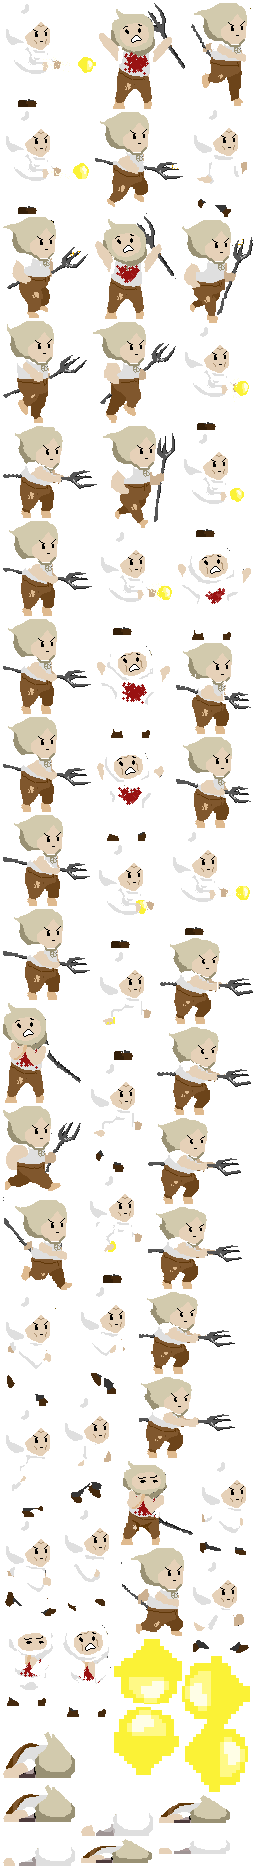
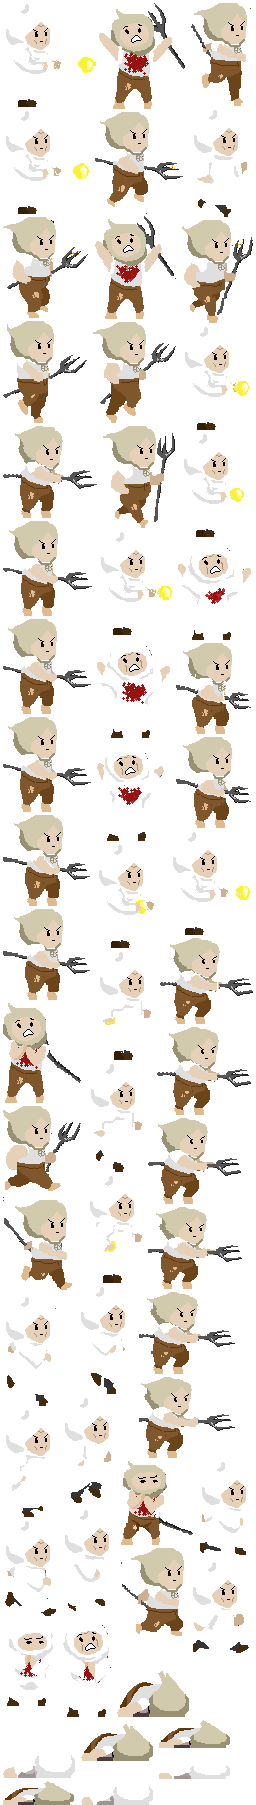
Revert "[Enemy] - Add fire bullet on priest"
This reverts commit 4a588bb8333f744e464b6e2dda7c52a940e058e1.

diff --git a/src/scripts/enemy/priest/priest.class.ts b/src/scripts/enemy/priest/priest.class.ts
@@ -4,12 +4,8 @@ import { EnemyGuid } from "../enemy-guid.enum";
 import { EnemiesEnum } from "../enemies.enum";
 import MainScene from "../../scenes/MainScene";
 import {PriestInfo} from "./priest-info.enum";
-import Player from "../../player/Player";
-import {Bullet} from "./bullet.class";
 
 export class Priest extends Enemy implements IEnemy {
-    private isRangeAttacking = false;
-    private bullets: any;
     /**
      * Sprite prefix for run anim
      * @type {string}
@@ -48,7 +44,6 @@ export class Priest extends Enemy implements IEnemy {
         });
 
         this.on('animationcomplete_' + this.GUID + 'Fight', () => {
-            this.pushBullet();
             if (!this.isDead) {
                 if (this.currentPlayerInstance !== null) {
                     this.currentPlayerInstance.getDamageFromEnemy(this.info.damage);
@@ -62,118 +57,7 @@ export class Priest extends Enemy implements IEnemy {
         this.on('animationcomplete_' + this.GUID + 'Hit', () => {
             this.isHit = false;
         });
-
-        this.handleCollisionAttack();
     }
-
-
-    /**
-     * Set physics of the enemy
-     */
-    protected setPhysics(x: number, y: number) {
-        const matterEngine: any = Phaser.Physics.Matter;
-        const body = matterEngine.Matter.Bodies.rectangle(x, y, 60, 110, {
-            chamfer: { radius: 17 }
-        });
-        // add sensor
-        this.sensors = {
-            left: matterEngine.Matter.Bodies.rectangle(x - 50, y, 20, 50, { isSensor: true, label: 'left' }),
-            right: matterEngine.Matter.Bodies.rectangle(x + 50, y, 20, 50, { isSensor: true, label: 'right' }),
-            rightRangeAttack: matterEngine.Matter.Bodies.rectangle(x + 200, y, 300, 10, { isSensor: true, label: 'rightRangeAttack' }),
-            leftRangeAttack: matterEngine.Matter.Bodies.rectangle(x - 200, y, 300, 10, { isSensor: true, label: 'leftRangeAttack' })
-        };
-
-        const compoundBody = matterEngine.Matter.Body.create({
-            parts: [ body, this.sensors.left, this.sensors.right, this.sensors.rightRangeAttack, this.sensors.leftRangeAttack],
-            inertia: Infinity
-        });
-
-        this.setExistingBody(compoundBody);
-        this.setFixedRotation();
-        this.setFriction(0);
-    }
-
-
-    /**
-     * Handle collision effects
-     */
-    private handleCollisionAttack(): void {
-        this.scene.matterCollision.addOnCollideStart({
-            objectA: [this.sensors.leftRangeAttack, this.sensors.rightRangeAttack],
-            callback: this.onSensorRangeAttack,
-            context: this
-        });
-        this.scene.matterCollision.addOnCollideActive({
-            objectA: [this.sensors.leftRangeAttack, this.sensors.rightRangeAttack],
-            callback: this.onSensorRangeAttack,
-            context: this
-        });
-        this.scene.matterCollision.addOnCollideEnd({
-            objectA: [this.sensors.leftRangeAttack, this.sensors.rightRangeAttack],
-            callback: () => this.currentPlayerInstance = null,
-            context: this
-        });
-    }
-
-    /**
-     * On sensor was display
-     * @param bodyA
-     * @param bodyB
-     */
-    private onSensorRangeAttack({ bodyA, bodyB }) {
-        if (bodyB.isSensor ) return; // We only care about collisions with physical objects
-        if (bodyB.gameObject instanceof Player) {
-            if (bodyB.gameObject.getAttackstate()) {
-                // player attack before
-            } else if (!this.isDead && !this.isHit) {
-                if (bodyA === this.sensors.leftRangeAttack) {
-                    if (this.currentDirection !== -1) {
-                        this.currentDirection = -1;
-                        this.currentVelocity = -1;
-                        this.setFlipX(true);
-                    }
-                } else if (bodyA === this.sensors.rightRangeAttack) {
-                    if (this.currentDirection !== 1) {
-                        this.currentDirection = 1;
-                        this.currentVelocity = 1;
-                        this.setFlipX(false);
-                    }
-                }
-                if (!this.isRangeAttacking) {
-                    this.rangeAttack(bodyB.gameObject);
-                }
-            }
-        }
-    }
-
-    /**
-     * Make a range attack
-     * @param bodyA
-     * @param playerInstance
-     */
-    private rangeAttack(playerInstance) {
-        this.isDoingAnAction = true;
-        this.anims.play(this.GUID + 'Fight', true);
-        this.currentPlayerInstance = playerInstance;
-        // const bullet = this.bullets.get();
-        // bullet.fire(this);
-        // this.pushBullet();
-        this.isRangeAttacking = true;
-        setTimeout(() => {this.isRangeAttacking = false}, 3000);
-    }
-
-    public pushBullet() {
-        let x = this.x;
-        if (this.currentDirection === -1) {
-            x -= 40;
-        } else {
-            x += 10;
-        }
-        new Bullet(this.world, this.scene, x, this.y, EnemiesEnum.SPRITE_SHEET_ID, 'fireball1.png', this.currentDirection);
-    }
-
-
-
 
     /**
      * Init all anims for peasant interaction

diff --git a/src/scripts/player/Player.ts b/src/scripts/player/Player.ts
@@ -7,7 +7,6 @@ import { PLAYER_ANIM } from "./animTabs";
 import VictoryItem from "../items/victoryItem";
 import Vector2 = Phaser.Math.Vector2;
 import { PeasantInfo } from "../enemy/peasant/peasant-info.enum";
-import {Bullet} from "../enemy/priest/bullet.class";
 
 export default class Player extends Phaser.Physics.Matter.Sprite {
     private playerControl: PlayerControls;
@@ -368,6 +367,7 @@ export default class Player extends Phaser.Physics.Matter.Sprite {
                         this.emit('playerbuyitem');
                     }
                 } else {
+
                     if (eventData.bodyB.isSensor === false) {
                         this.killPlayer();
                     }
@@ -388,11 +388,7 @@ export default class Player extends Phaser.Physics.Matter.Sprite {
     }
 
     onSensorCollide(eventdata) {
-        if (eventdata.bodyB.isSensor) return;
-        if ( eventdata.gameObjectB instanceof Bullet) {
-            this.takeDamage(eventdata.gameObjectB.DAMAGE);
-            eventdata.gameObjectB.destroy();
-        }// We only care about collisions with physical objects
+        if (eventdata.bodyB.isSensor) return; // We only care about collisions with physical objects
         if (eventdata.bodyA === this.sensors.left && eventdata.gameObjectB instanceof Phaser.Tilemaps.Tile && !this.isTouching.left) {
             this.isTouching.left = true;
             if (eventdata.pair.separation > 0.5) this.x += eventdata.pair.separation - 0.5;

diff --git a/src/scripts/scenes/MainScene.ts b/src/scripts/scenes/MainScene.ts
@@ -10,12 +10,10 @@ import EventsUtils from "../utils/events.utils";
 import ItemUtil from "../items/itemUtil";
 import Boss from "../enemy/boss/boss";
 export default class MainScene extends Phaser.Scene {
-  public bullets: any;
   public matterCollision: PhaserMatterCollisionPlugin;
   public map: Phaser.Tilemaps.Tilemap;
   public itemUtil: ItemUtil;
   public player: Player;
-  public static PLAYER_CAT;
   public shapes: any;
   public boss: Boss;
   public audioManager: AudioManager;
@@ -70,7 +68,6 @@ export default class MainScene extends Phaser.Scene {
     }
   }
   create() {
-
     /** Build all layers maps */
     const map = Map.getInstance(this.add.tilemap('map'));
     this.map = map.tileMap;
@@ -100,7 +97,6 @@ export default class MainScene extends Phaser.Scene {
     this.enemies = new Enemies(this.map, this.matter.world, this);
 
     this.player.setCollisionCategory(this.playerCatCollision);
-    MainScene.PLAYER_CAT = this.playerCatCollision;
     // 1 is the collision category of the tile with tiled
     this.player.setCollidesWith([1, this.enemies.collisionCat, this.itemsCat]);
 
@@ -302,5 +298,6 @@ export default class MainScene extends Phaser.Scene {
     this.updateParralax();
     this.enemies.updateAllEnemies(this.player.x);
     this.boss.update();
+
   }
 }

diff --git a/src/scripts/enemy/enemy.ts b/src/scripts/enemy/enemy.ts
@@ -130,7 +130,7 @@ export class Enemy extends Phaser.Physics.Matter.Sprite implements IEnemy {
      */
     protected setPhysics(x: number, y: number) {
         const matterEngine: any = Phaser.Physics.Matter;
-        const body = matterEngine.Matter.Bodies.rectangle(x, y, 60, 120, {
+        const body = matterEngine.Matter.Bodies.rectangle(x, y, 50, 80, {
             chamfer: { radius: 17 }
         });
         // add sensor
@@ -147,6 +147,7 @@ export class Enemy extends Phaser.Physics.Matter.Sprite implements IEnemy {
         this.setExistingBody(compoundBody);
         this.setFixedRotation();
         this.setFriction(0);
+        this.setOrigin(0.5,0.65);
     }
 
     /**
@@ -266,6 +267,8 @@ export class Enemy extends Phaser.Physics.Matter.Sprite implements IEnemy {
         this.setStatic(true);
         this.x = currentX;
         this.y = currentY;
+        this.setOrigin(0.5,0.65);
+
     }
 
     /**
